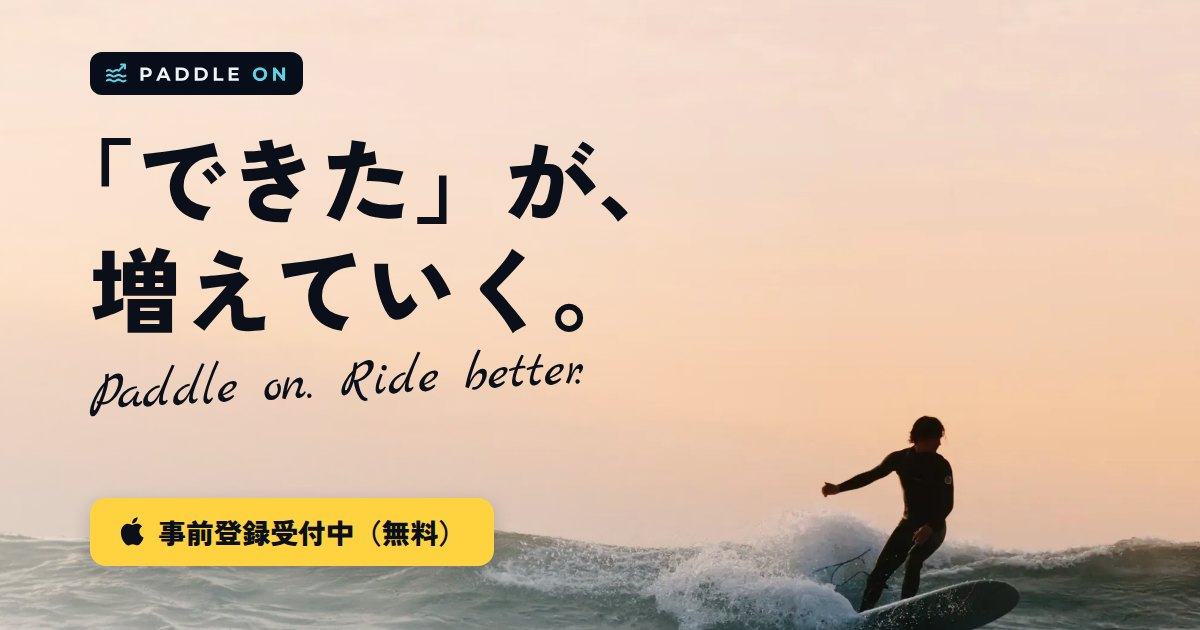
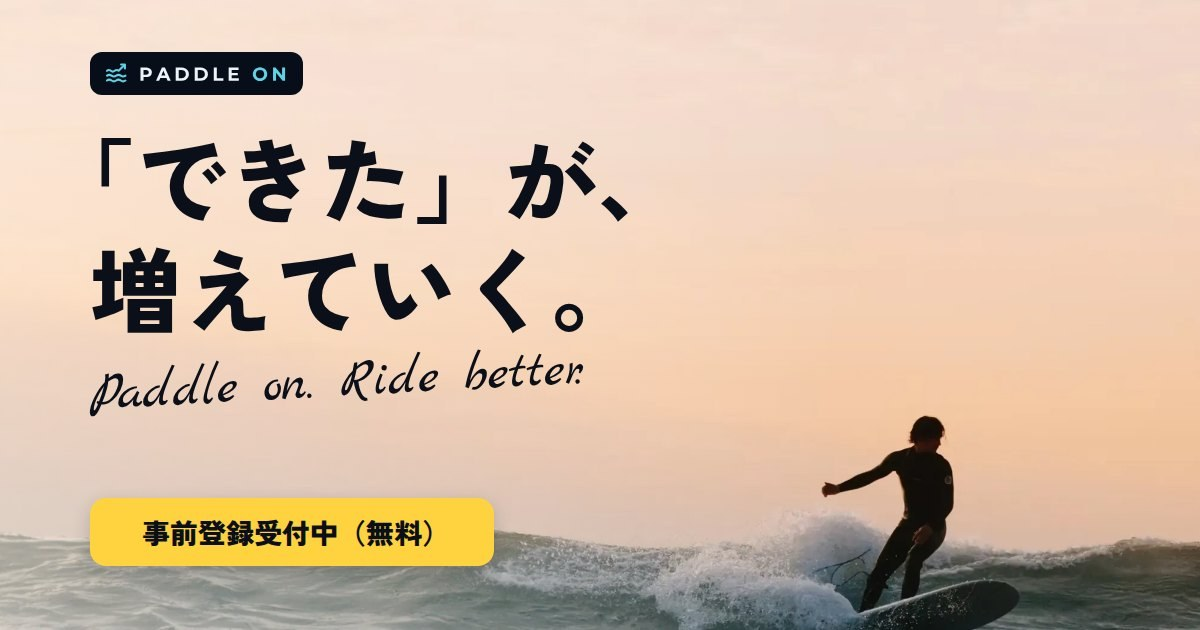
スマホのファーストビューを見直し、Appleのマークを使わないようにする
- スマホではリード文を短くし、App Storeボタンと補足文を隠してサーファーの写真を1画面に収める
- OGP画像のボタンからAppleのマークを外す

Changed region(s): [[0.0925, 0.8143, 0.37, 0.8746]]

diff --git a/public/index.html b/public/index.html
@@ -644,6 +644,18 @@ footer nav a,footer small{font-size:13px}
 .store span.t svg{display:block;transform:translateY(-2px)}
 .phones-wrap{align-items:stretch}
 .heronote2{align-self:flex-end;text-align:right}
+
+/* ---- SP FV: compact copy, surfer in first view ---- */
+@media (max-width:640px){
+  .hero .store,.hero .micro{display:none}
+  .hero .lead-mid{display:none}
+  .hero .bg{background-color:#1E3940;background-image:linear-gradient(180deg,rgba(30,57,64,0) 0,rgba(30,57,64,0) 960px,#1E3940 1050px),url(img/hero-bg-sp.webp);background-size:100% 100%,auto 1150px;background-position:0 0,calc(50vw - 597px) -95px;background-repeat:no-repeat}
+  .hero .heronote2{color:rgba(255,255,255,.7)}
+  .hero .phones{margin-top:290px}
+}
+@media (max-width:380px){
+  .hero .bg{background-image:linear-gradient(180deg,rgba(30,57,64,0) 0,rgba(30,57,64,0) 930px,#1E3940 1020px),url(img/hero-bg-sp.webp);background-position:0 0,calc(50vw - 597px) -125px}
+}
 </style>
 </head>
 <body>
@@ -666,7 +678,7 @@ footer nav a,footer small{font-size:13px}
     <div class="copy">
       <h1><span class="nw">「できた」が、</span><br><span class="nw">増えていく。</span></h1>
       <div class="tagline">Paddle on. Ride better.</div>
-      <p class="lead">海から上がったら30秒で記録。<br>タップで振り返って、次に意識することを1つだけ。<br>「上手くなってる」が、ちゃんとわかるサーフィンの記録アプリ。</p>
+      <p class="lead">海から上がったら30秒で記録。<br><span class="lead-mid">タップで振り返って、次に意識することを1つだけ。<br></span>「上手くなってる」が、ちゃんとわかるサーフィンの記録アプリ。</p>
       <div class="cta-row">
         <a class="btn" href="#signup" data-cta="hero">事前登録する（無料）</a>
         <div class="store" aria-label="App Store版 準備中"><span class="t"><svg width="18" height="18" viewBox="0 0 24 24" fill="currentColor" aria-hidden="true"><path d="M16 13c0-2.5 2-3.6 2.1-3.7-1.2-1.7-3-1.9-3.6-1.9-1.5-.2-3 .9-3.8.9s-2-.9-3.3-.9C5.7 7.5 4 8.5 3.1 10.1c-1.9 3.3-.5 8.1 1.3 10.8.9 1.3 2 2.7 3.3 2.7s1.8-.9 3.4-.9 2 .9 3.4.8c1.4 0 2.3-1.3 3.2-2.6.7-1 1.2-2.1 1.5-3.2-.1 0-3.2-1.2-3.2-4.7zM13.6 5.6c.7-.9 1.2-2 1.1-3.2-1 .1-2.3.7-3 1.6-.7.8-1.2 2-1.1 3.1 1.2.1 2.3-.6 3-1.5z"/></svg>App Store</span><span class="soon">準備中</span></div>
